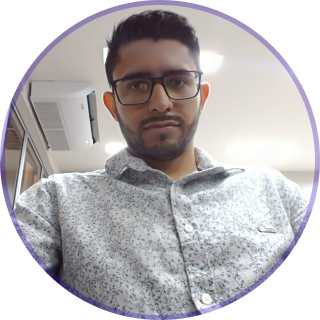
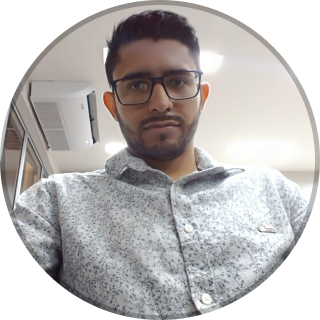
Ajustes na cor primary

diff --git a/index.html b/index.html
@@ -34,7 +34,7 @@
 
                 <div class="category">
 
-                    <img src="./img/frontend.svg" alt="Imagem Front-End" />
+                    <img src="./img/frontend.png" alt="Imagem Front-End" />
 
                     <h2>Front-End</h2>
 
@@ -59,7 +59,7 @@
                 <div class="divider"></div>
 
                 <div class="category">
-                    <img src="./img/backend.svg" alt="Imagem do Back-End" />
+                    <img src="./img/backend.png" alt="Imagem do Back-End" />
 
                     <h2>Back-End</h2>
 
@@ -84,7 +84,7 @@
 
                 <div class="category">
 
-                    <img src="./img/outhers-skills.svg" alt="Imagem Outras Habilidades" />
+                    <img src="./img/outhers-skills.png" alt="Imagem Outras Habilidades" />
 
                     <h2>Outras habilidades</h2>
 
@@ -115,7 +115,7 @@
     <section class="projects">
 
         <h1>Meus projetos</h1>
-        <img src="./img/controlbarber.svg" alt="Logo sistema Controlbarber" />
+        <img src="./img/controlbarber.png" alt="Logo sistema Controlbarber" />
         <h2>Gerenciamento de Barbearia</h2>
 
     </section>
@@ -128,9 +128,9 @@
 
         <div class="social-media">
 
-            <a href="https://github.com/rafaelandradeufc"><img src="./img/github.svg" alt="GitHub"></a>
-            <a href="https://www.linkedin.com/in/rafaelandradeufc/"><img src="./img/linkdin.svg" alt="Linkdin"></a>
-            <a href="mailto:arkikis181@gmail.com"><img src="./img/email.svg" alt="Email"></a>
+            <a href="https://github.com/rafaelandradeufc"><img src="./img/github.png" alt="GitHub"></a>
+            <a href="https://www.linkedin.com/in/rafaelandradeufc/"><img src="./img/linkdin.png" alt="Linkdin"></a>
+            <a href="mailto:arkikis181@gmail.com"><img src="./img/email.png" alt="Email"></a>
         </div>
 
         <h3>Feito por Rafael Andrade © 2020</h3>

diff --git a/css/containers/footer.css b/css/containers/footer.css
@@ -1,7 +1,7 @@
 .footer {
     display: flex;
     flex-direction: column;
-    background-color: #E7E1FF;
+    background-color: #E0E0E2;
     align-items: center;
     margin-top: 40px;
     height: 100%;
@@ -43,7 +43,7 @@
 @media (max-width: 900px) {
     .footer>h3 {
         margin: 10px 10px;
-        font-size: 26px;
+        font-size: 70%;
         width: 100%;
         text-align: center;
     }

diff --git a/css/components/btn.css b/css/components/btn.css
@@ -3,11 +3,11 @@
     align-items: center;
     text-decoration: none;
     background-color: #f5f5f5;
-    border: 1px solid var(--color-primary);
-    height: 48px;
+    border: 2px solid var(--color-primary);
+    height: 45px;
     padding: 10px;
-    border-radius: 5px;
-    font-weight: bold;
+    border-radius: 10px;
+    font-weight: normal;
     color: var(--color-primary);
 }
 

diff --git a/css/components/card.css b/css/components/card.css
@@ -1,8 +1,8 @@
 .card {
     display: flex;
     align-items: flex-start;
-    height: 530px;
-    width: 1000px;
+    height: 600px;
+    width: 1100px;
     border-radius: 50px;
     background-color: #f5f5f5;
     margin-top: 100px;
@@ -36,6 +36,7 @@
 .card .category .lang>h2 {
     font-weight: bold;
     font-size: 18px;
+    line-height: 23pt;
 }
 
 .card .category .lang>h3 {

diff --git a/css/containers/skills.css b/css/containers/skills.css
@@ -12,7 +12,7 @@
 }
 
 .bg-skills>h1 {
-    color: #FAFF00;
+    color: #f5f5f5;
     font-size: 32px;
     font-weight: bold;
     text-align: center;

diff --git a/css/config/colors.css b/css/config/colors.css
@@ -1,3 +1,3 @@
 :root {
-    --color-primary: #2300B1;
+    --color-primary: #0B6E4F;
 }
